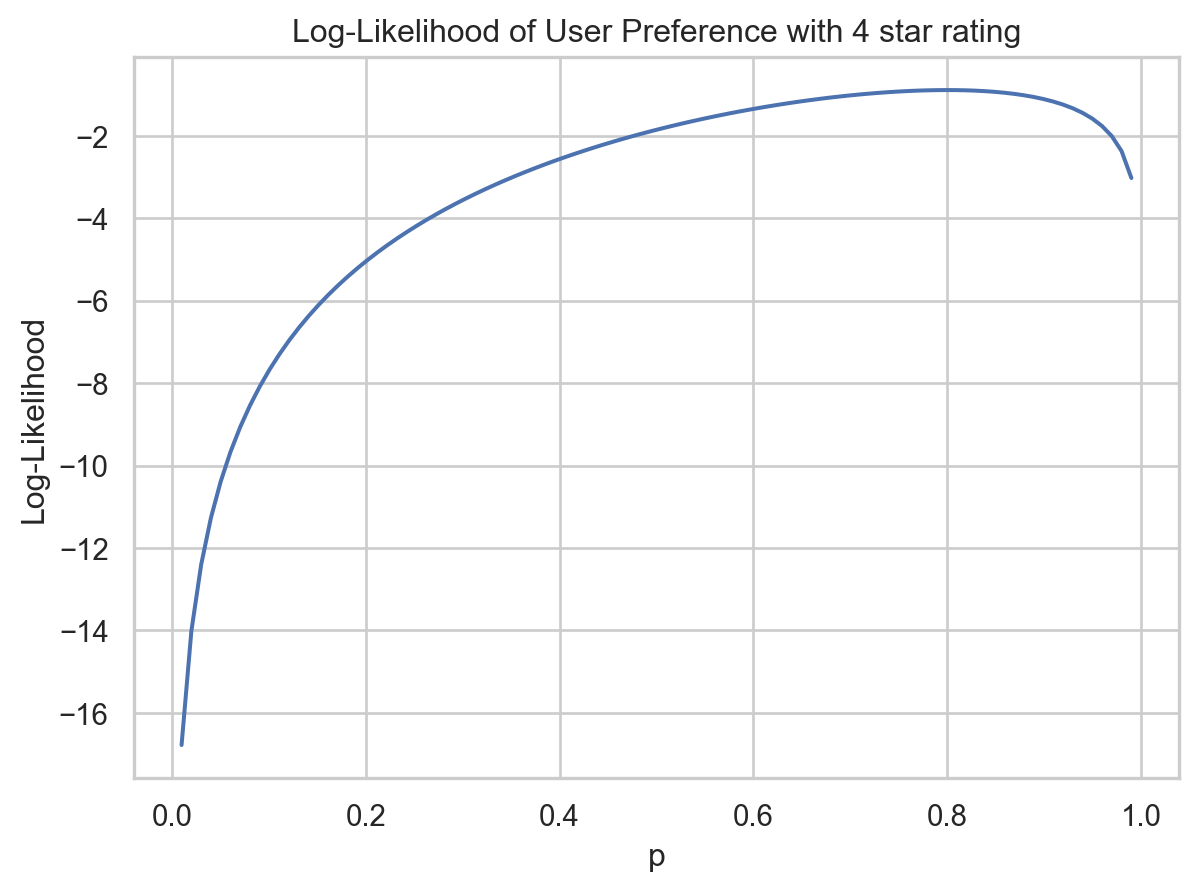
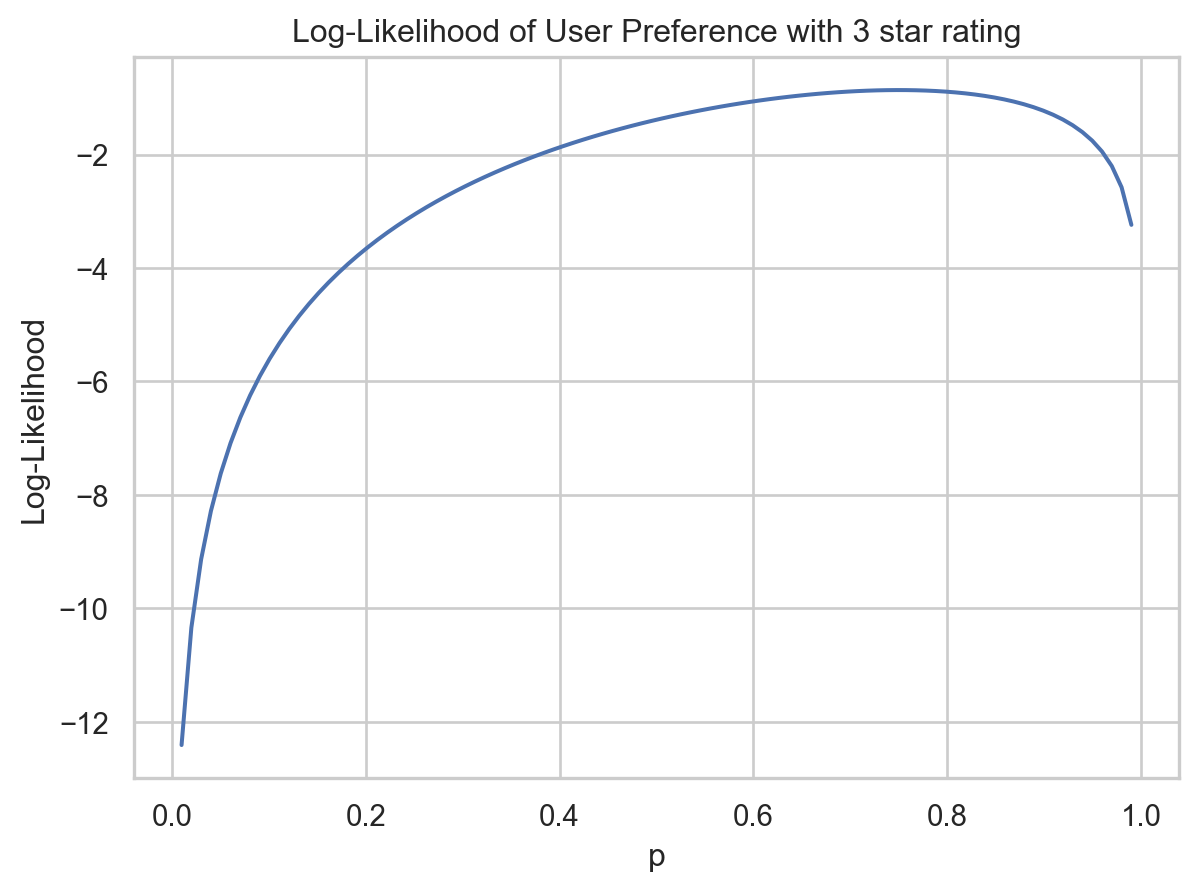
docs: update ratings_inference post — convert ratings to 0–4, correct example ratings, update MLE estimates and add goodness-of-fit; refresh figures and search index

diff --git a/docs/posts/ratings_inference/index.html b/docs/posts/ratings_inference/index.html
@@ -235,8 +235,8 @@ window.Quarto = {
 </section>
 <section id="data" class="level2">
 <h2 class="anchored" data-anchor-id="data">Data</h2>
-<p>Electronics product rating dataset is used in the study. The dataset contains user ratings for various electronic products, with each rating on a scale from 1-5. For this article a subset of <code>Headphones</code> in the data, from brands <em>Philips, Jabra and Apple</em> is used. The study focuses on these 3 particular products from these brands to make a comparative assessment.</p>
-<div id="38f183ef" class="cell" data-execution_count="3">
+<p>Electronics product rating dataset is used in the study. The dataset contains user ratings for various electronic products, with each rating on a scale from 1-5 (converted to 0-4). For this article a subset of <code>Headphones</code> in the data, from brands <em>Philips, Jabra and Apple</em> is used. The study focuses on these 3 particular products from these brands to make a comparative assessment.</p>
+<div id="03b373de" class="cell" data-execution_count="2">
 <div class="cell-output cell-output-display">
 <div>
 
@@ -260,7 +260,7 @@ window.Quarto = {
 <th data-quarto-table-cell-role="th">3098</th>
 <td>4501</td>
 <td>392873</td>
-<td>5.0</td>
+<td>4.0</td>
 <td>2015-02-02</td>
 <td>Female</td>
 <td>Headphones</td>
@@ -271,7 +271,7 @@ window.Quarto = {
 <th data-quarto-table-cell-role="th">3860</th>
 <td>3700</td>
 <td>510134</td>
-<td>5.0</td>
+<td>4.0</td>
 <td>2015-07-16</td>
 <td>Male</td>
 <td>Headphones</td>
@@ -282,7 +282,7 @@ window.Quarto = {
 <th data-quarto-table-cell-role="th">2392</th>
 <td>4501</td>
 <td>298026</td>
-<td>2.0</td>
+<td>1.0</td>
 <td>2014-08-31</td>
 <td>Female</td>
 <td>Headphones</td>
@@ -293,7 +293,7 @@ window.Quarto = {
 <th data-quarto-table-cell-role="th">2678</th>
 <td>4501</td>
 <td>330293</td>
-<td>4.0</td>
+<td>3.0</td>
 <td>2014-11-02</td>
 <td>Female</td>
 <td>Headphones</td>
@@ -304,7 +304,7 @@ window.Quarto = {
 <th data-quarto-table-cell-role="th">3543</th>
 <td>6699</td>
 <td>465867</td>
-<td>2.0</td>
+<td>1.0</td>
 <td>2015-05-14</td>
 <td>Female</td>
 <td>Headphones</td>
@@ -321,7 +321,7 @@ window.Quarto = {
 <section id="eda" class="level3">
 <h3 class="anchored" data-anchor-id="eda">EDA</h3>
 <p>Average ratings for brands is close and it appears that there is some degree of variability in the ratings. This variability can hide true differences between brands.</p>
-<div id="827dda7d" class="cell" data-execution_count="4">
+<div id="ae2df29a" class="cell" data-execution_count="3">
 <div class="cell-output cell-output-display">
 <div>
 <figure class="figure">
@@ -330,8 +330,8 @@ window.Quarto = {
 </div>
 </div>
 </div>
-<p>The distribution of ratings for these brands has distinct patterns, while users seem to have more polar views on <em>Jabra</em> (commonly rate 1 or 5), Philips has a more favourable set of ratings with fewest 1 Stars.</p>
-<div id="80a31d79" class="cell" data-execution_count="5">
+<p>The distribution of ratings for these brands has distinct patterns, while users seem to have more polar views on <em>Jabra</em> (commonly rate 0 or 4), Philips has a more favourable set of ratings with fewest 0 Stars.</p>
+<div id="f02274e4" class="cell" data-execution_count="4">
 <div class="cell-output cell-output-display">
 <div>
 <figure class="figure">
@@ -348,15 +348,15 @@ window.Quarto = {
 <section id="modelling-a-single-brand" class="level3">
 <h3 class="anchored" data-anchor-id="modelling-a-single-brand">Modelling a single brand</h3>
 <p>It can be useful to start by modeling the ratings for a single brand to understand the underlying distribution and variability.</p>
-<p>It is useful to consider that each user effectively has 5 discrete numbers which it gets to chose from with a certain underlying probability. This behaviour essentially mimicks a binomial process. If it is considered that individual user ratings are binomial outcomes then it implies that brand ratings are essentially a mixtue of binomials <span class="citation" data-cites="in_all_likelihood">(<a href="#ref-in_all_likelihood" role="doc-biblioref">Pawitan 2013</a>)</span></p>
+<p>It is useful to consider that each user effectively has 5 (0-4) discrete numbers which it gets to chose from with a certain underlying probability. This behaviour essentially mimicks a binomial process. If it is considered that individual user ratings are binomial outcomes then it implies that brand ratings are essentially a mixtue of binomials <span class="citation" data-cites="in_all_likelihood">(<a href="#ref-in_all_likelihood" role="doc-biblioref">Pawitan 2013</a>)</span></p>
 <p>A binomial model assumes <span class="math inline">\(y \sim \text{Binomial}(n, p)\)</span>, where <span class="math inline">\(p\)</span> is the probability of a favorable rating. The likelihood is <span class="math inline">\(L(p) = p^y(1-p)^{n-y}\)</span>, with MLE <span class="math inline">\(\hat{p} = y/n\)</span> <span class="citation" data-cites="statistical_inference">(<a href="#ref-statistical_inference" role="doc-biblioref">George Casella 2002</a>)</span></p>
-<p>Extending this line of thinking it is cle r that the underlying binomial parameter (p) is the favourability of the given brand for users. Higher the p, more favourable the brand and expectedly it should have higher ratings.</p>
+<p>Extending this line of thinking it is clear that the underlying binomial parameter (p) is the favourability of the given brand for users. Higher the p, more favourable the brand and expectedly it should have higher ratings.</p>
 <p>So, effectively each user has a preference <em>p</em> and the observed ratings are realizations of a binomial process with this underlying probability.</p>
 <p>To model a single user’s preference needs a hierarchical approach, where individual user preferences are drawn from a common distribution, capturing the variability across users. The end result is not just a single value of <em>p</em> for a user but rather a range of possible values with different likelihood based on how the user has rated the product.</p>
-<p>For e.g.&nbsp;if a user who has rated the product <em>4</em> star is considered, then the likelihood of their preference <em>p</em> would be higher for values around 0.8 (assuming 4 out of 5 ratings are favorable), but it may still be possible that their preference is some other value with a lower likelihood.</p>
+<p>For e.g.&nbsp;if a user who has rated the product <em>3</em> star is considered, then the likelihood of their preference <em>p</em> would be higher for values around 0.65 (assuming 3 out of 4 ratings are favorable), but it may still be possible that their preference is some other value with a lower likelihood.</p>
 <p><em>For a refresher on likelihood theory refer <a href="https://prteek.github.io/regression_room/posts/likelihood_primer/">likelihood primer</a></em></p>
-<div id="e9dd58ee" class="cell" data-execution_count="6">
-<div class="cell-output cell-output-display" data-execution_count="5">
+<div id="7fe21f88" class="cell" data-execution_count="5">
+<div class="cell-output cell-output-display" data-execution_count="25">
 <div>
 <figure class="figure">
 <p><img src="index_files/figure-html/cell-6-output-1.png" width="599" height="445" class="figure-img"></p>
@@ -373,42 +373,58 @@ window.Quarto = {
 </section>
 <section id="maximum-likelihood-estimation" class="level4">
 <h4 class="anchored" data-anchor-id="maximum-likelihood-estimation">Maximum Likelihood Estimation</h4>
-<div id="860cdcba" class="cell" data-cache="true" data-execution_count="8">
+<div id="705dbc57" class="cell" data-cache="true" data-execution_count="7">
 <div class="cell-output cell-output-stdout">
 <pre><code>Beta-Binomial MLE:
-  α = 1.540765
-  β = 0.569612
+  α = 0.668897
+  β = 0.355348
 
-Distribution of p ~ Beta(1.54, 0.57):
-  E[p] = 0.730090
-  SD[p] = 0.251705
-  95% range: [0.236749, 1.223431]
+Distribution of p ~ Beta(0.67, 0.36):
+  E[p] = 0.653064
+  SD[p] = 0.334558
+  95% range: [-0.002669, 1.308797]
 
-Interpretation: Users have a preference for Apple products with p varying around 73.0%
-with standard deviation ±25.2%</code></pre>
+Interpretation: Users have a preference for Apple products with p varying around 65.3%
+with standard deviation ±33.5%</code></pre>
+</div>
+</div>
+</section>
+<section id="goodness-of-fit" class="level4">
+<h4 class="anchored" data-anchor-id="goodness-of-fit">Goodness of fit</h4>
+<p>Goodness of fit can be assessed by comparing counts from the Beta-binomial model using MLE estimates, to actual counts at different rating values. The counts are close and model is satisfactory for this data.</p>
+<div id="74504883" class="cell" data-execution_count="8">
+<div class="cell-output cell-output-stdout">
+<pre><code>
+Model check:
+   Rating  Observed counts  Modelled counts
+0       0               11             11.5
+1       1               11              9.1
+2       2                8              9.7
+3       3               13             12.8
+4       4               33             32.9</code></pre>
 </div>
 </div>
 </section>
 <section id="profile-likelihood-of-p" class="level4">
 <h4 class="anchored" data-anchor-id="profile-likelihood-of-p">Profile likelihood of <em>p</em></h4>
 <p>For Beta-Binomial, we fix E[p] and optimize α.</p>
-<div id="218f7013" class="cell" data-cache="true" data-execution_count="9">
+<div id="83d861b5" class="cell" data-cache="true" data-execution_count="9">
 <div class="cell-output cell-output-stdout">
-<pre><code>Profile likelihood MLE: p = 0.726316
-Joint optimization MLE: p = 0.730090
-Difference: 0.003774</code></pre>
+<pre><code>Profile likelihood MLE: p = 0.652632
+Joint optimization MLE: p = 0.653064
+Difference: 0.000432</code></pre>
 </div>
 </div>
-<div id="a24a4b03" class="cell" data-execution_count="10">
+<div id="619f3ac0" class="cell" data-execution_count="10">
 <div class="cell-output cell-output-display">
 <div>
 <figure class="figure">
-<p><img src="index_files/figure-html/cell-10-output-1.png" width="606" height="455" class="figure-img"></p>
+<p><img src="index_files/figure-html/cell-11-output-1.png" width="605" height="455" class="figure-img"></p>
 </figure>
 </div>
 </div>
 </div>
-<p>The curve shows a well defined (regular) likelihood profile which peaks at around MLE value. This could also be used to derive confidence interval on <em>p</em> if required.</p>
+<p>The curve shows a well defined (regular) likelihood profile which peaks at around MLE value. It could also be used to derive confidence interval on <em>p</em> using likelihod based intervals if required.</p>
 
 
 

diff --git a/docs/index.html b/docs/index.html
@@ -210,7 +210,7 @@ window.Quarto = {
     </div>
 </div>
 <div class="list quarto-listing-default">
-<div class="quarto-post image-right" data-index="0" data-categories="aW5mZXJlbmNlJTJDbGlrZWxpaG9vZCUyQ2Rpc3BlcnNpb24=" data-listing-date-sort="1776207600000" data-listing-file-modified-sort="1780631313848" data-listing-date-modified-sort="NaN" data-listing-reading-time-sort="7" data-listing-word-count-sort="1229">
+<div class="quarto-post image-right" data-index="0" data-categories="aW5mZXJlbmNlJTJDbGlrZWxpaG9vZCUyQ2Rpc3BlcnNpb24=" data-listing-date-sort="1776207600000" data-listing-file-modified-sort="1780636046540" data-listing-date-modified-sort="NaN" data-listing-reading-time-sort="7" data-listing-word-count-sort="1355">
 <div class="thumbnail"><a href="./posts/ratings_inference/index.html" class="no-external">
 
 <img loading="lazy" src="./posts/ratings_inference/ratings.png" class="thumbnail-image">
